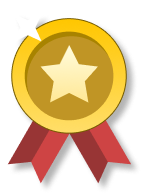
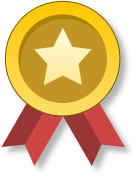
you can now see shimmer effect on donation

diff --git a/lib/models/donation.dart b/lib/models/donation.dart
@@ -1,4 +1,7 @@
+import 'dart:math';
+
 import 'package:flutter/material.dart';
+import 'package:flutter_animate/flutter_animate.dart';
 
 class Donation {
   String name;
@@ -27,28 +30,53 @@ class Donation {
 }
 
 class Medal extends StatelessWidget {
-  const Medal({super.key, required this.bgColor, required this.imageSrc});
+  const Medal(
+      {super.key,
+      required this.bgColor,
+      required this.imageSrc,
+      this.shimmer = false});
 
   final MaterialColor bgColor;
   final String imageSrc;
 
+  final double _radius = 25;
+  final double _border = 2;
+
+  final bool shimmer;
+
   @override
   Widget build(BuildContext context) {
+    final Random _random = Random();
+    final int _delay =
+        _random.nextInt(3500) + 2000; // Random number [2000 : 4499]
+
     return CircleAvatar(
-      radius: 25,
-      backgroundColor: bgColor[100],
-      child: Image.asset(
-        imageSrc,
-        width: 30,
-      ),
-    );
+        radius: _radius + _border,
+        backgroundColor: bgColor == Colors.yellow ? bgColor[800] : bgColor[300],
+        child: Animate(
+            effects: shimmer
+                ? [
+                    ShimmerEffect(
+                        delay: _delay.milliseconds, duration: 1.seconds)
+                  ]
+                : [],
+            onPlay: (controller) => controller.loop(count: 4),
+            child: CircleAvatar(
+              radius: _radius,
+              backgroundColor: bgColor[100],
+              child: Image.asset(
+                imageSrc,
+                width: 30,
+              ),
+            )));
   }
 }
 
 class GoldMedal extends Medal {
   GoldMedal(
       {super.bgColor = Colors.yellow,
-      super.imageSrc = "assets/medals/gold_medal.png"});
+      super.imageSrc = "assets/medals/gold_medal.png",
+      super.shimmer = true});
 }
 
 class SilverMedal extends Medal {
